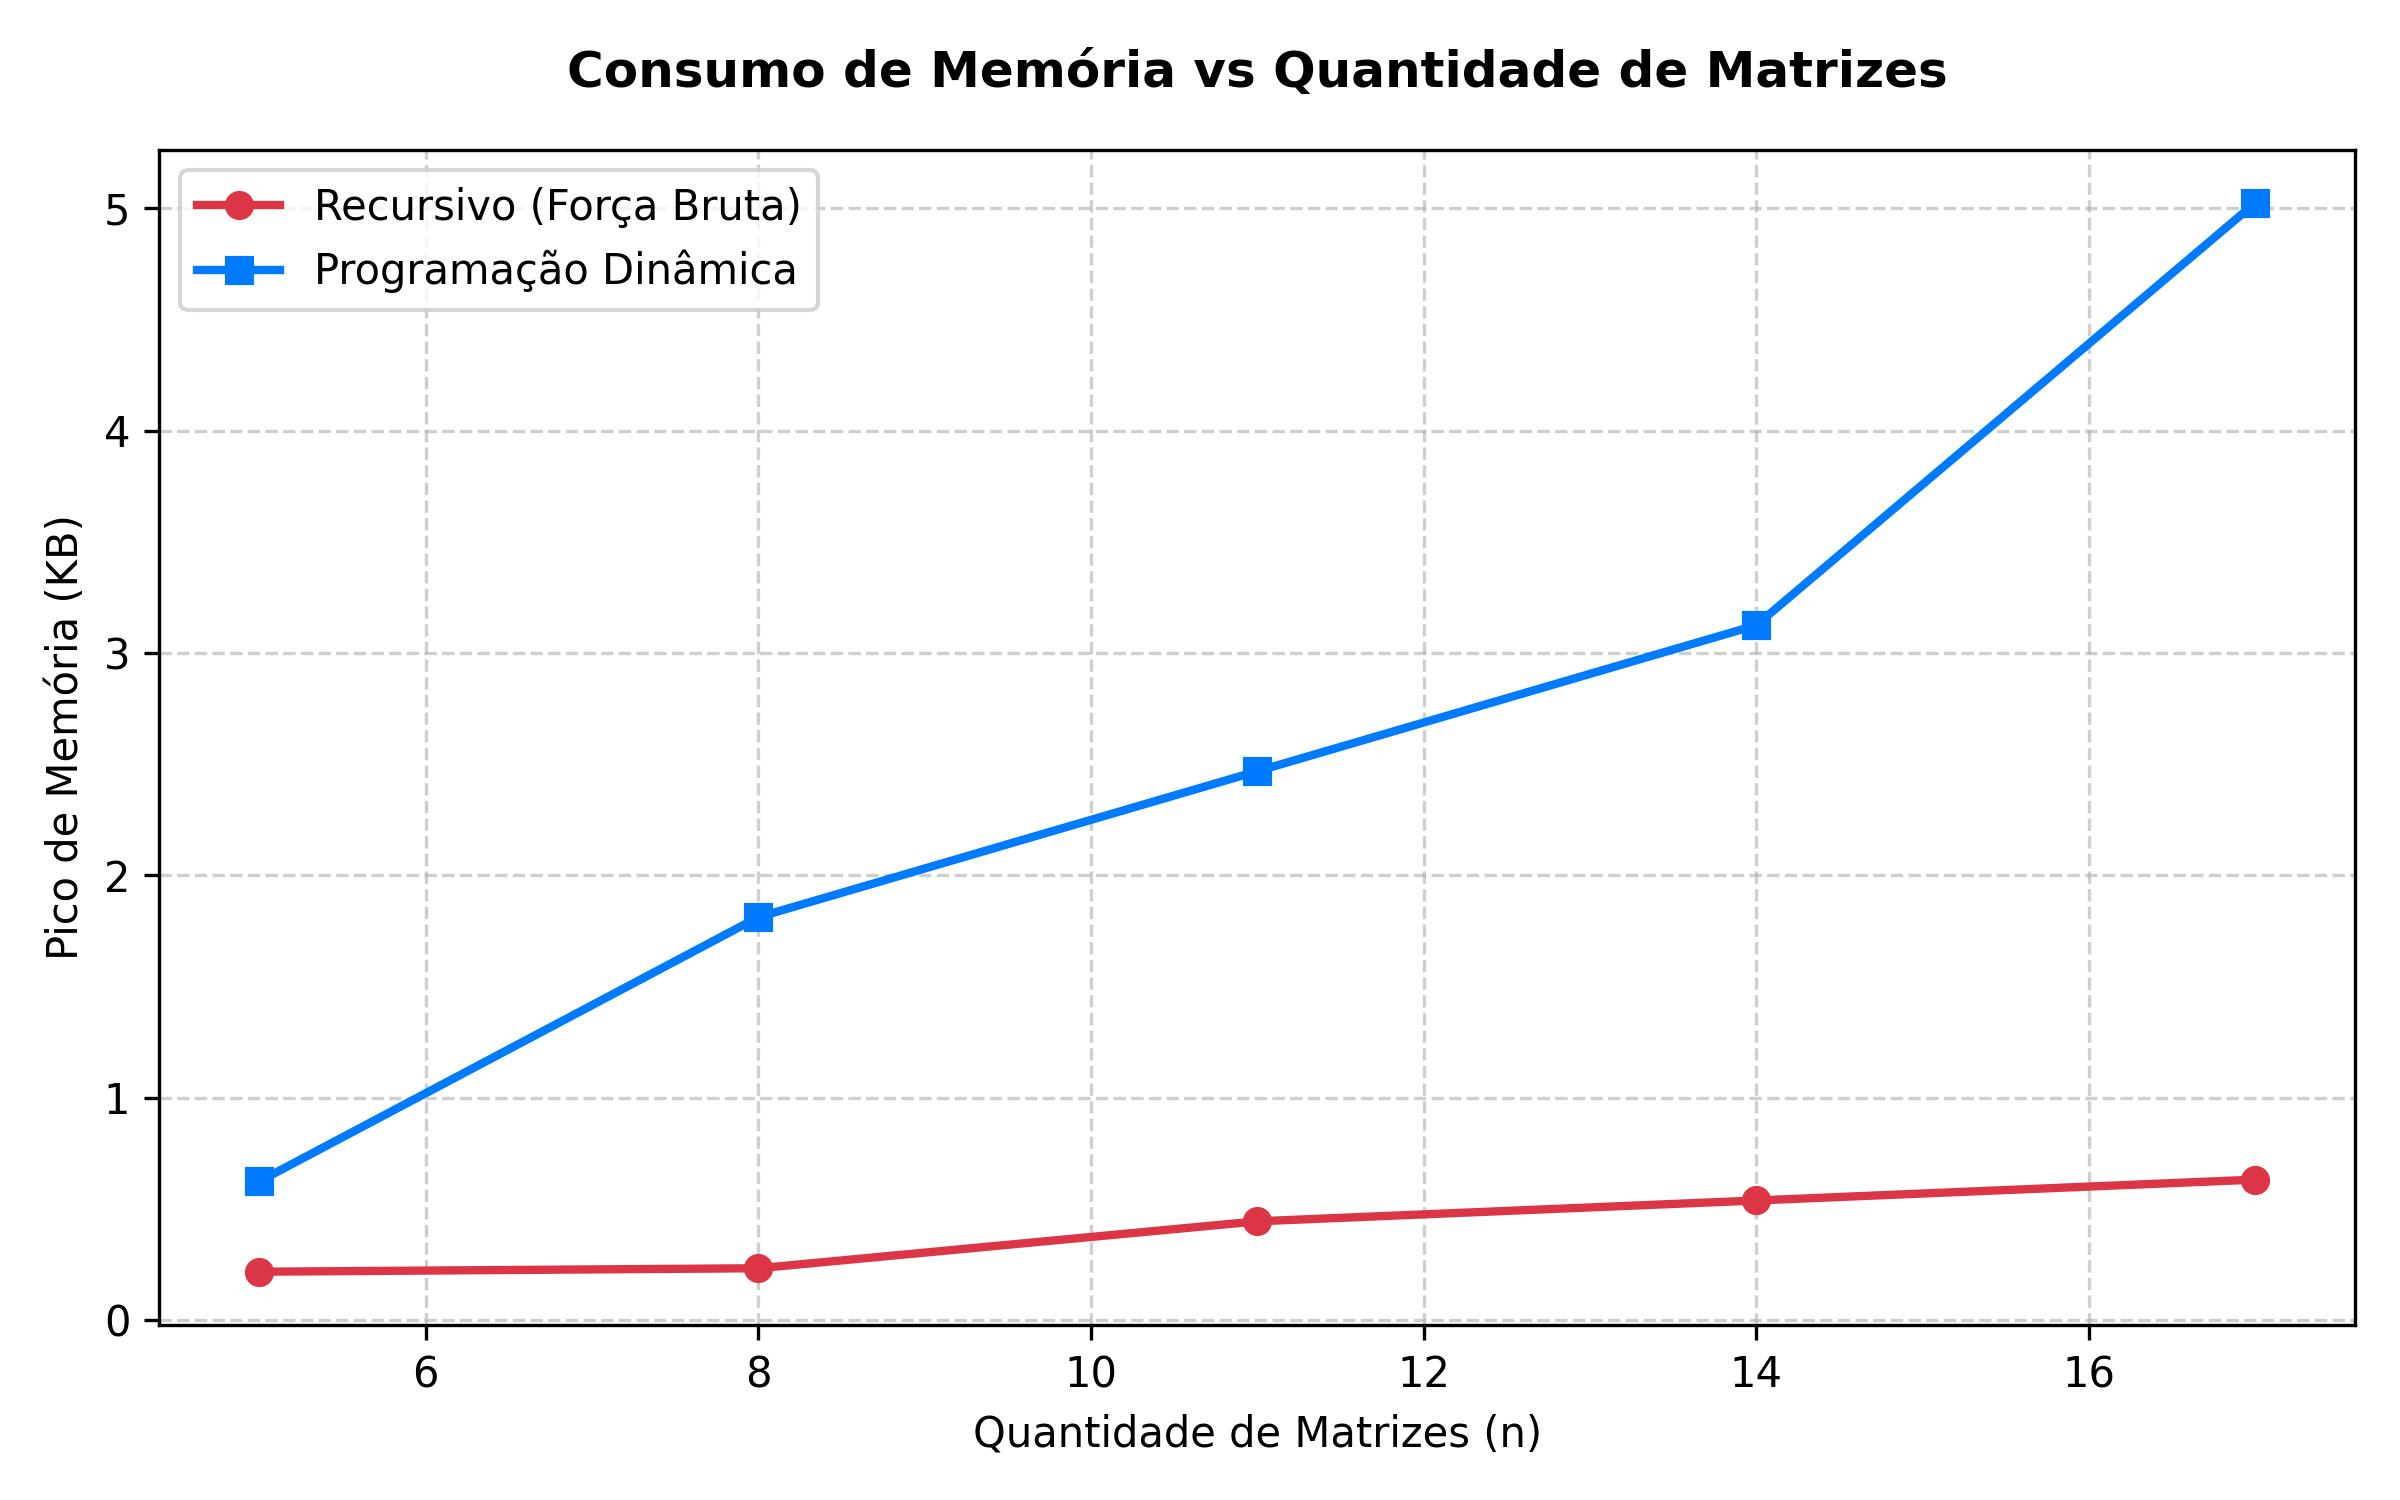
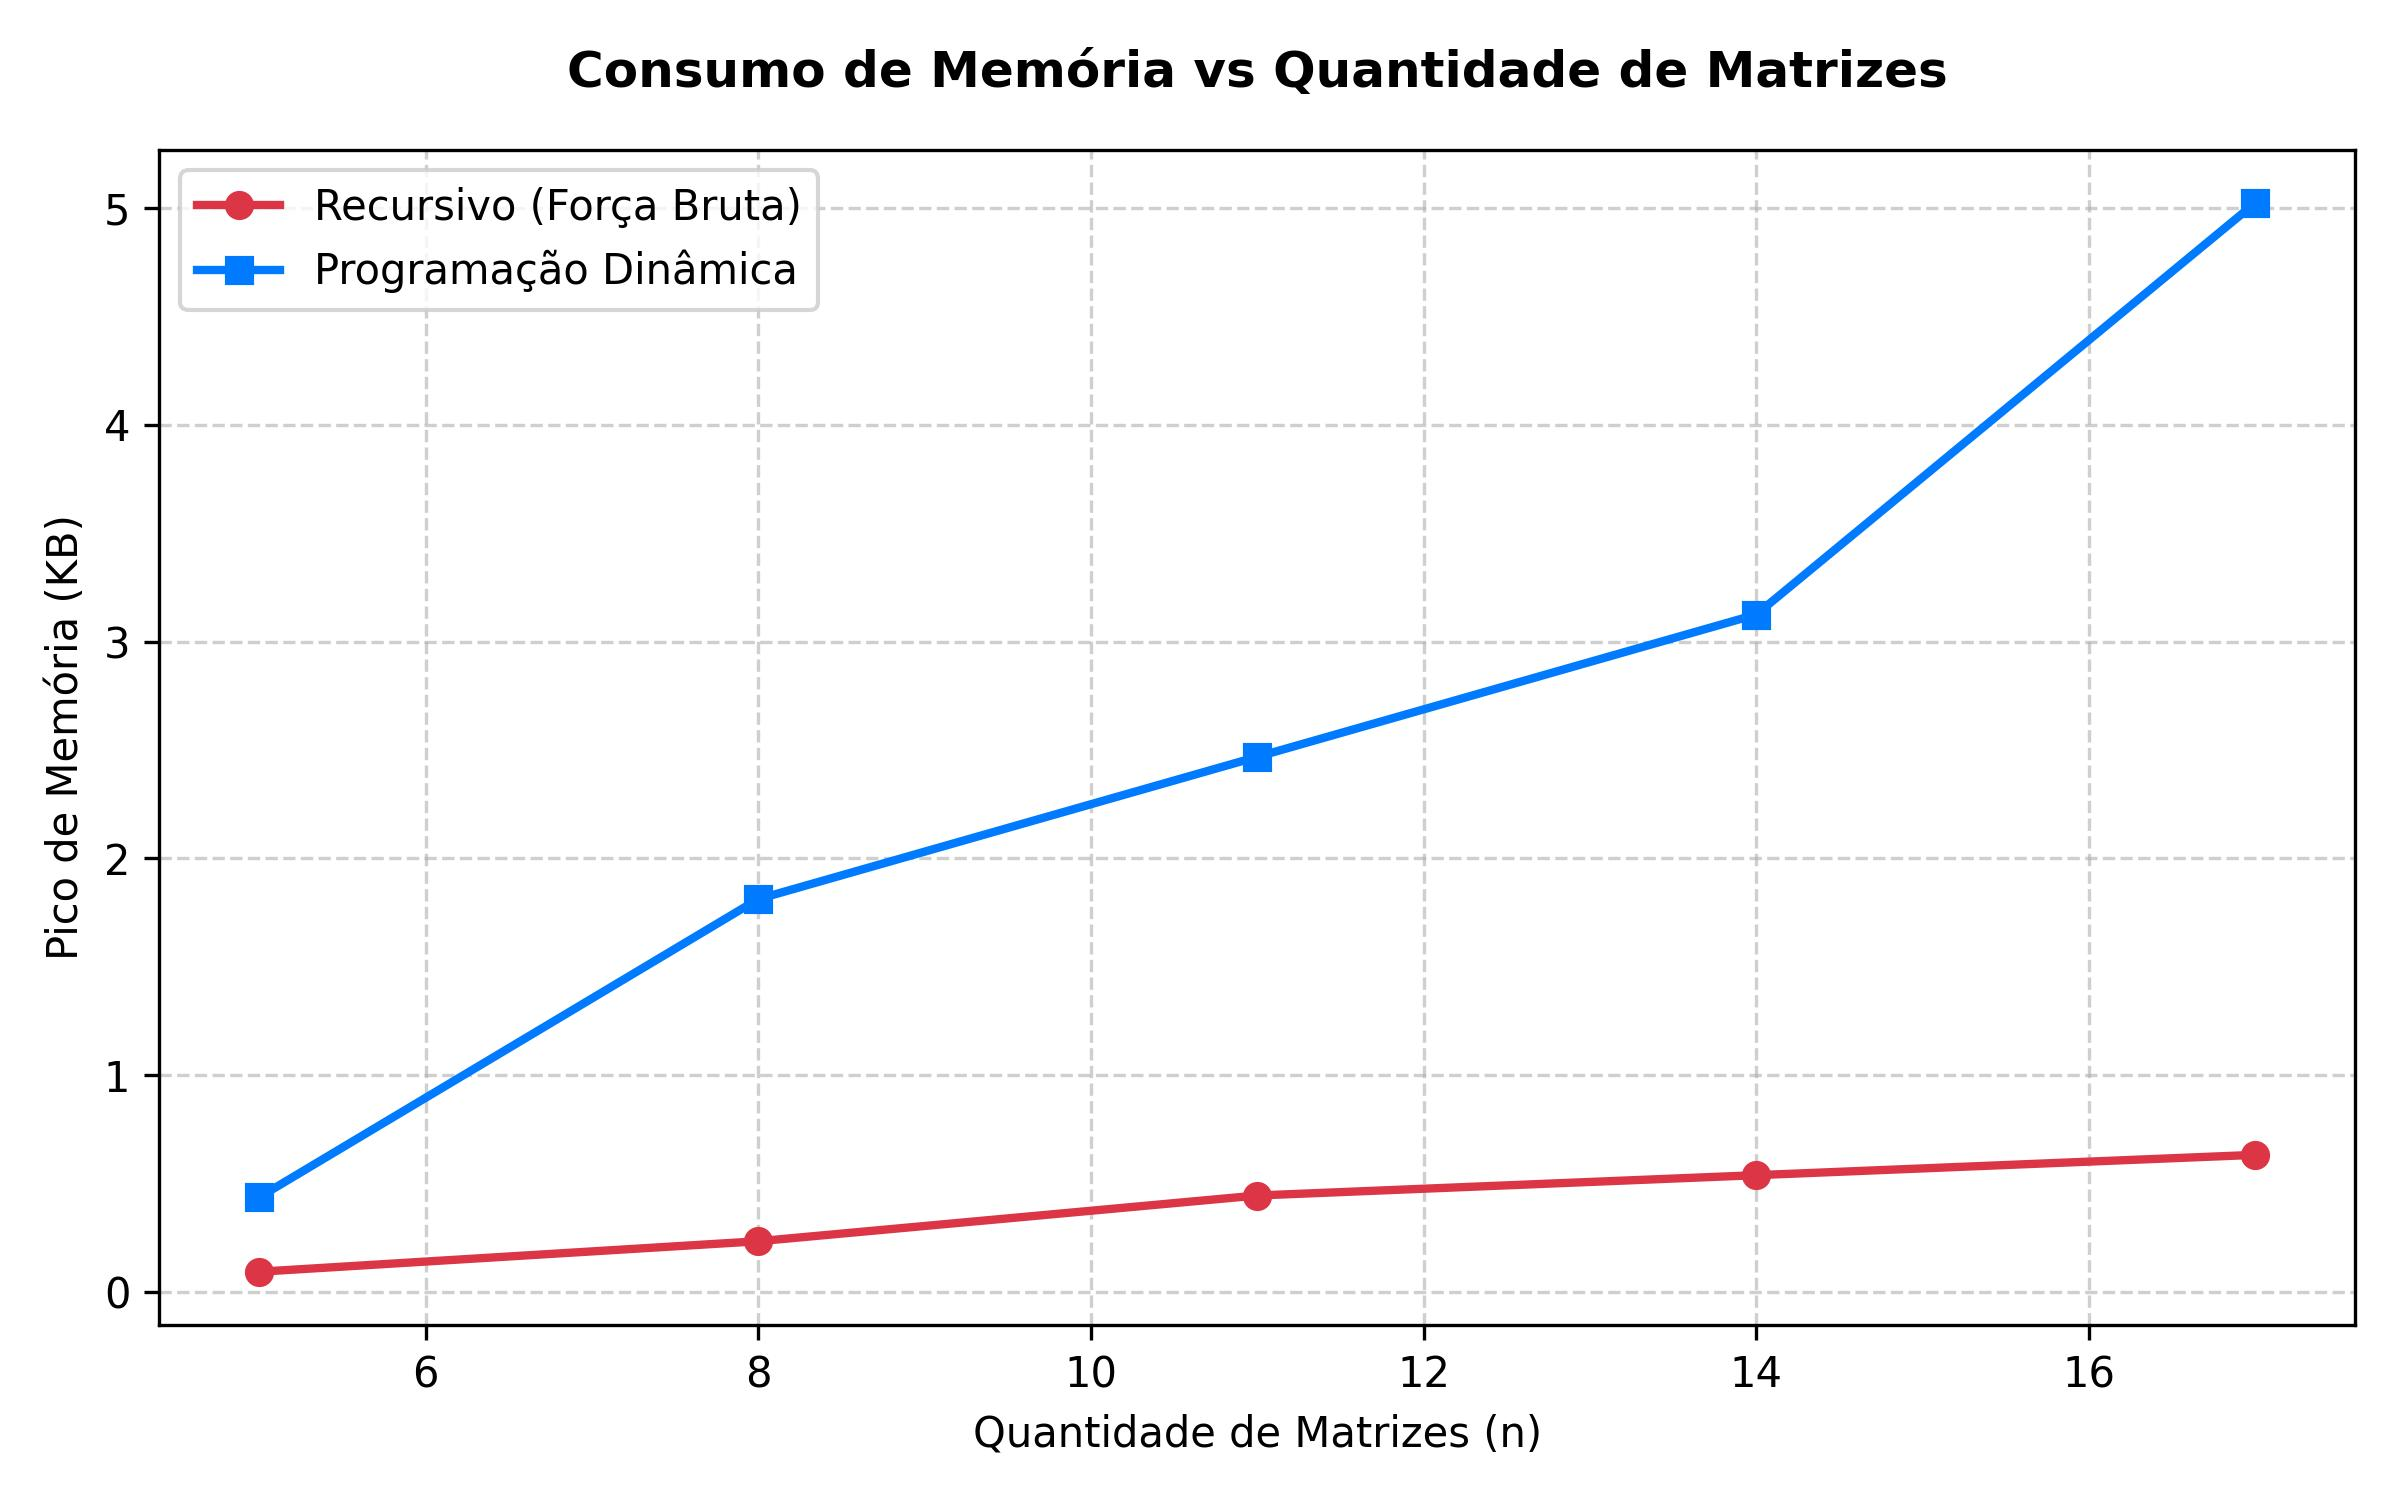
fix: comments

diff --git a/Segunda_Avaliação/main.py b/Segunda_Avaliação/main.py
@@ -10,15 +10,13 @@ from recursivo import multiplicacao_matrizes_recursiva
 from dinamico import multiplicacao_matrizes_pd
 
 def medir_desempenho(funcao, p, eh_recursivo=False):
-    """Função auxiliar para medir tempo e memória de uma execução."""
+    # medir tempo e memória de uma execução.
     tracemalloc.start()
     inicio = time.perf_counter()
     
     if eh_recursivo:
-        # A versão recursiva precisa dos índices iniciais e finais
         funcao(p, 1, len(p) - 1)
     else:
-        # A versão dinâmica precisa apenas do array
         funcao(p)
         
     fim = time.perf_counter()
